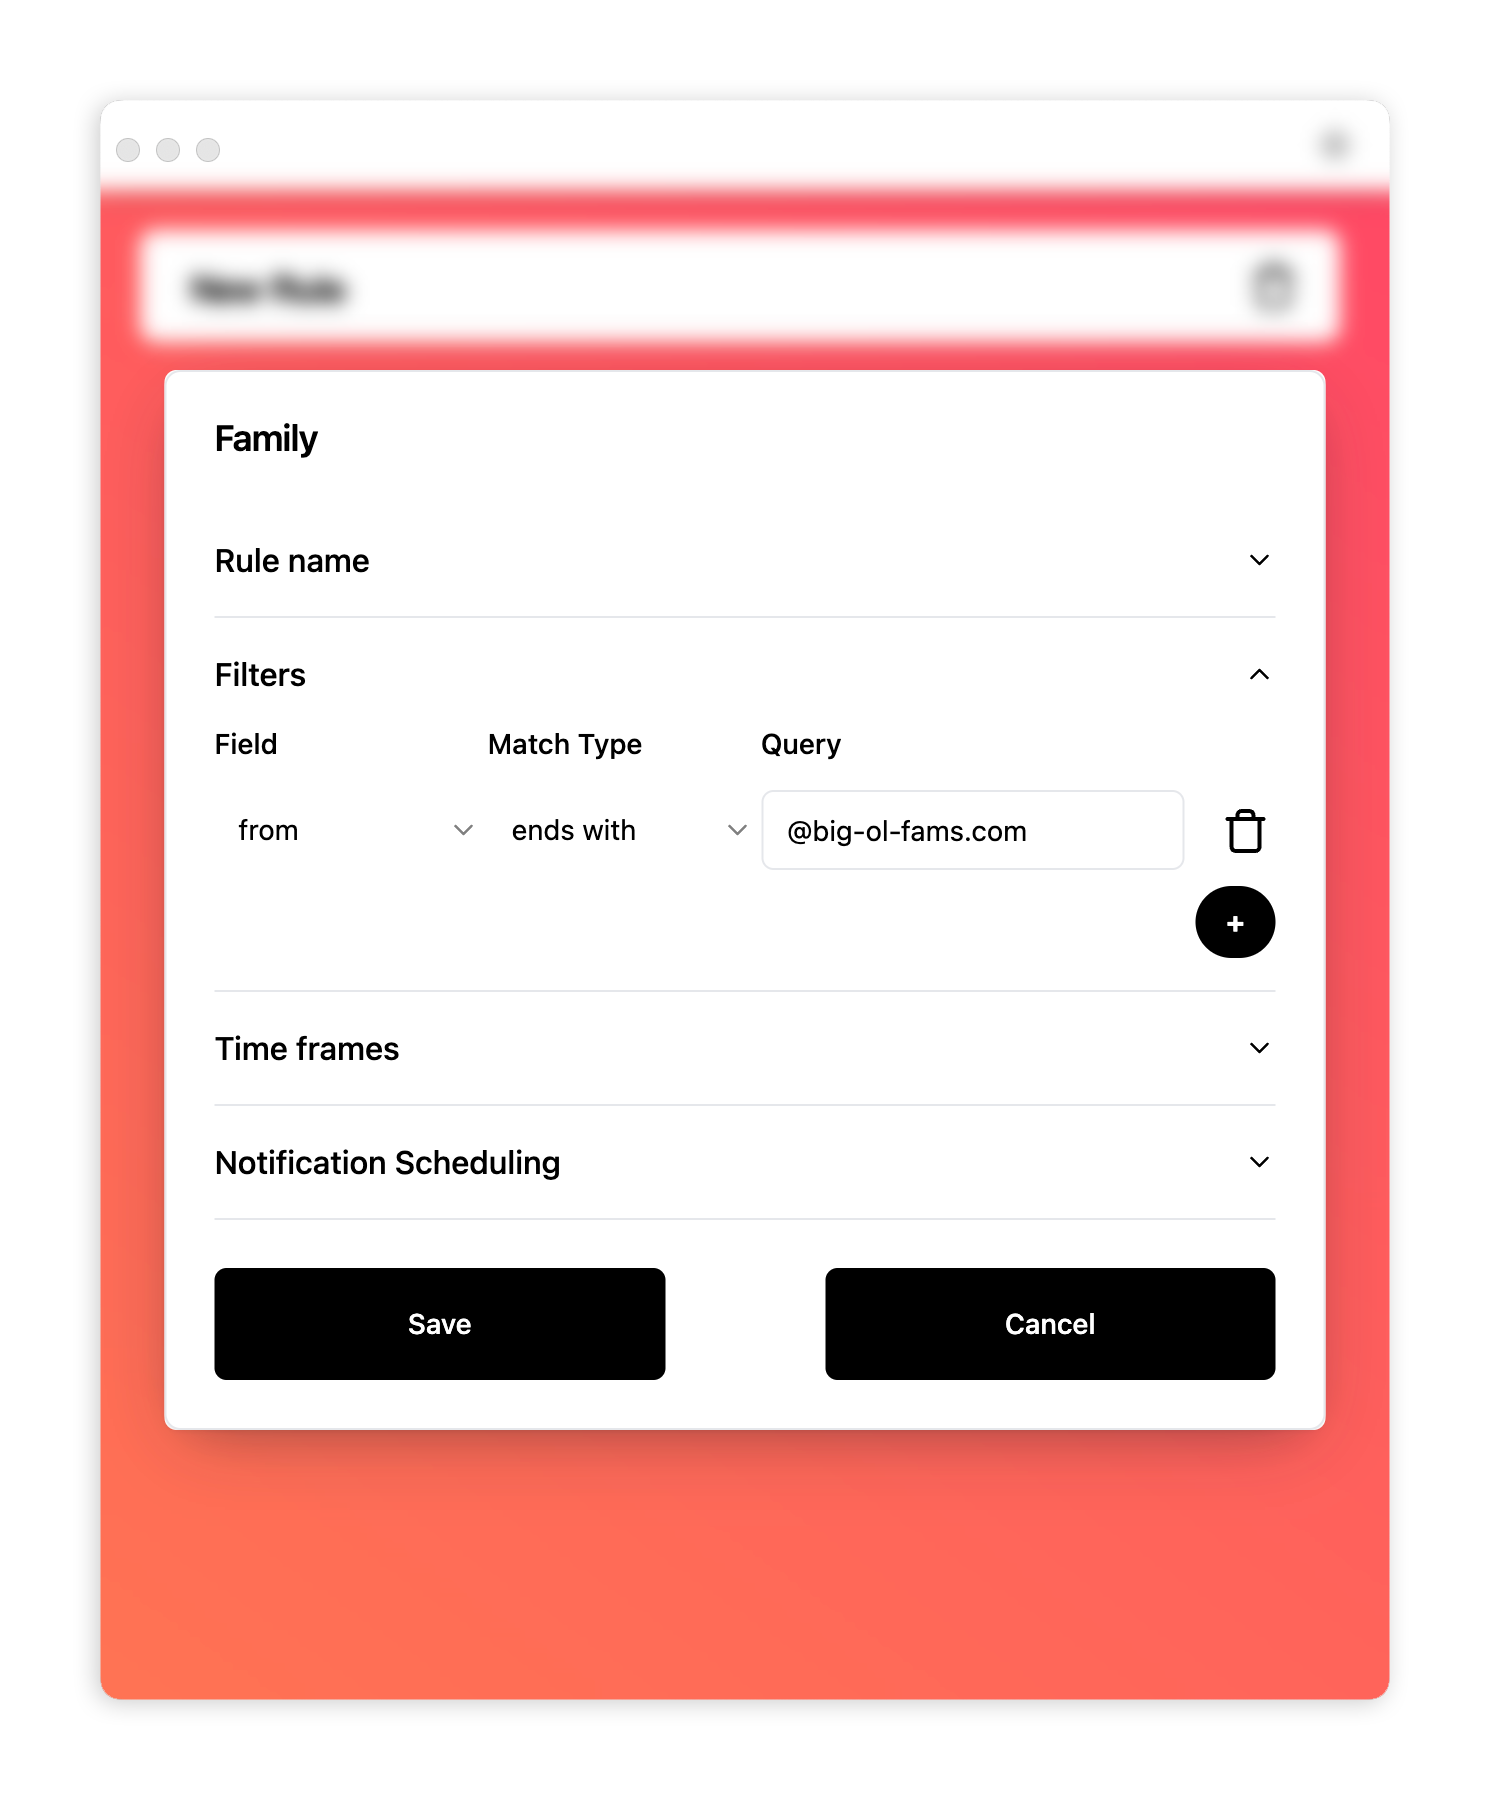
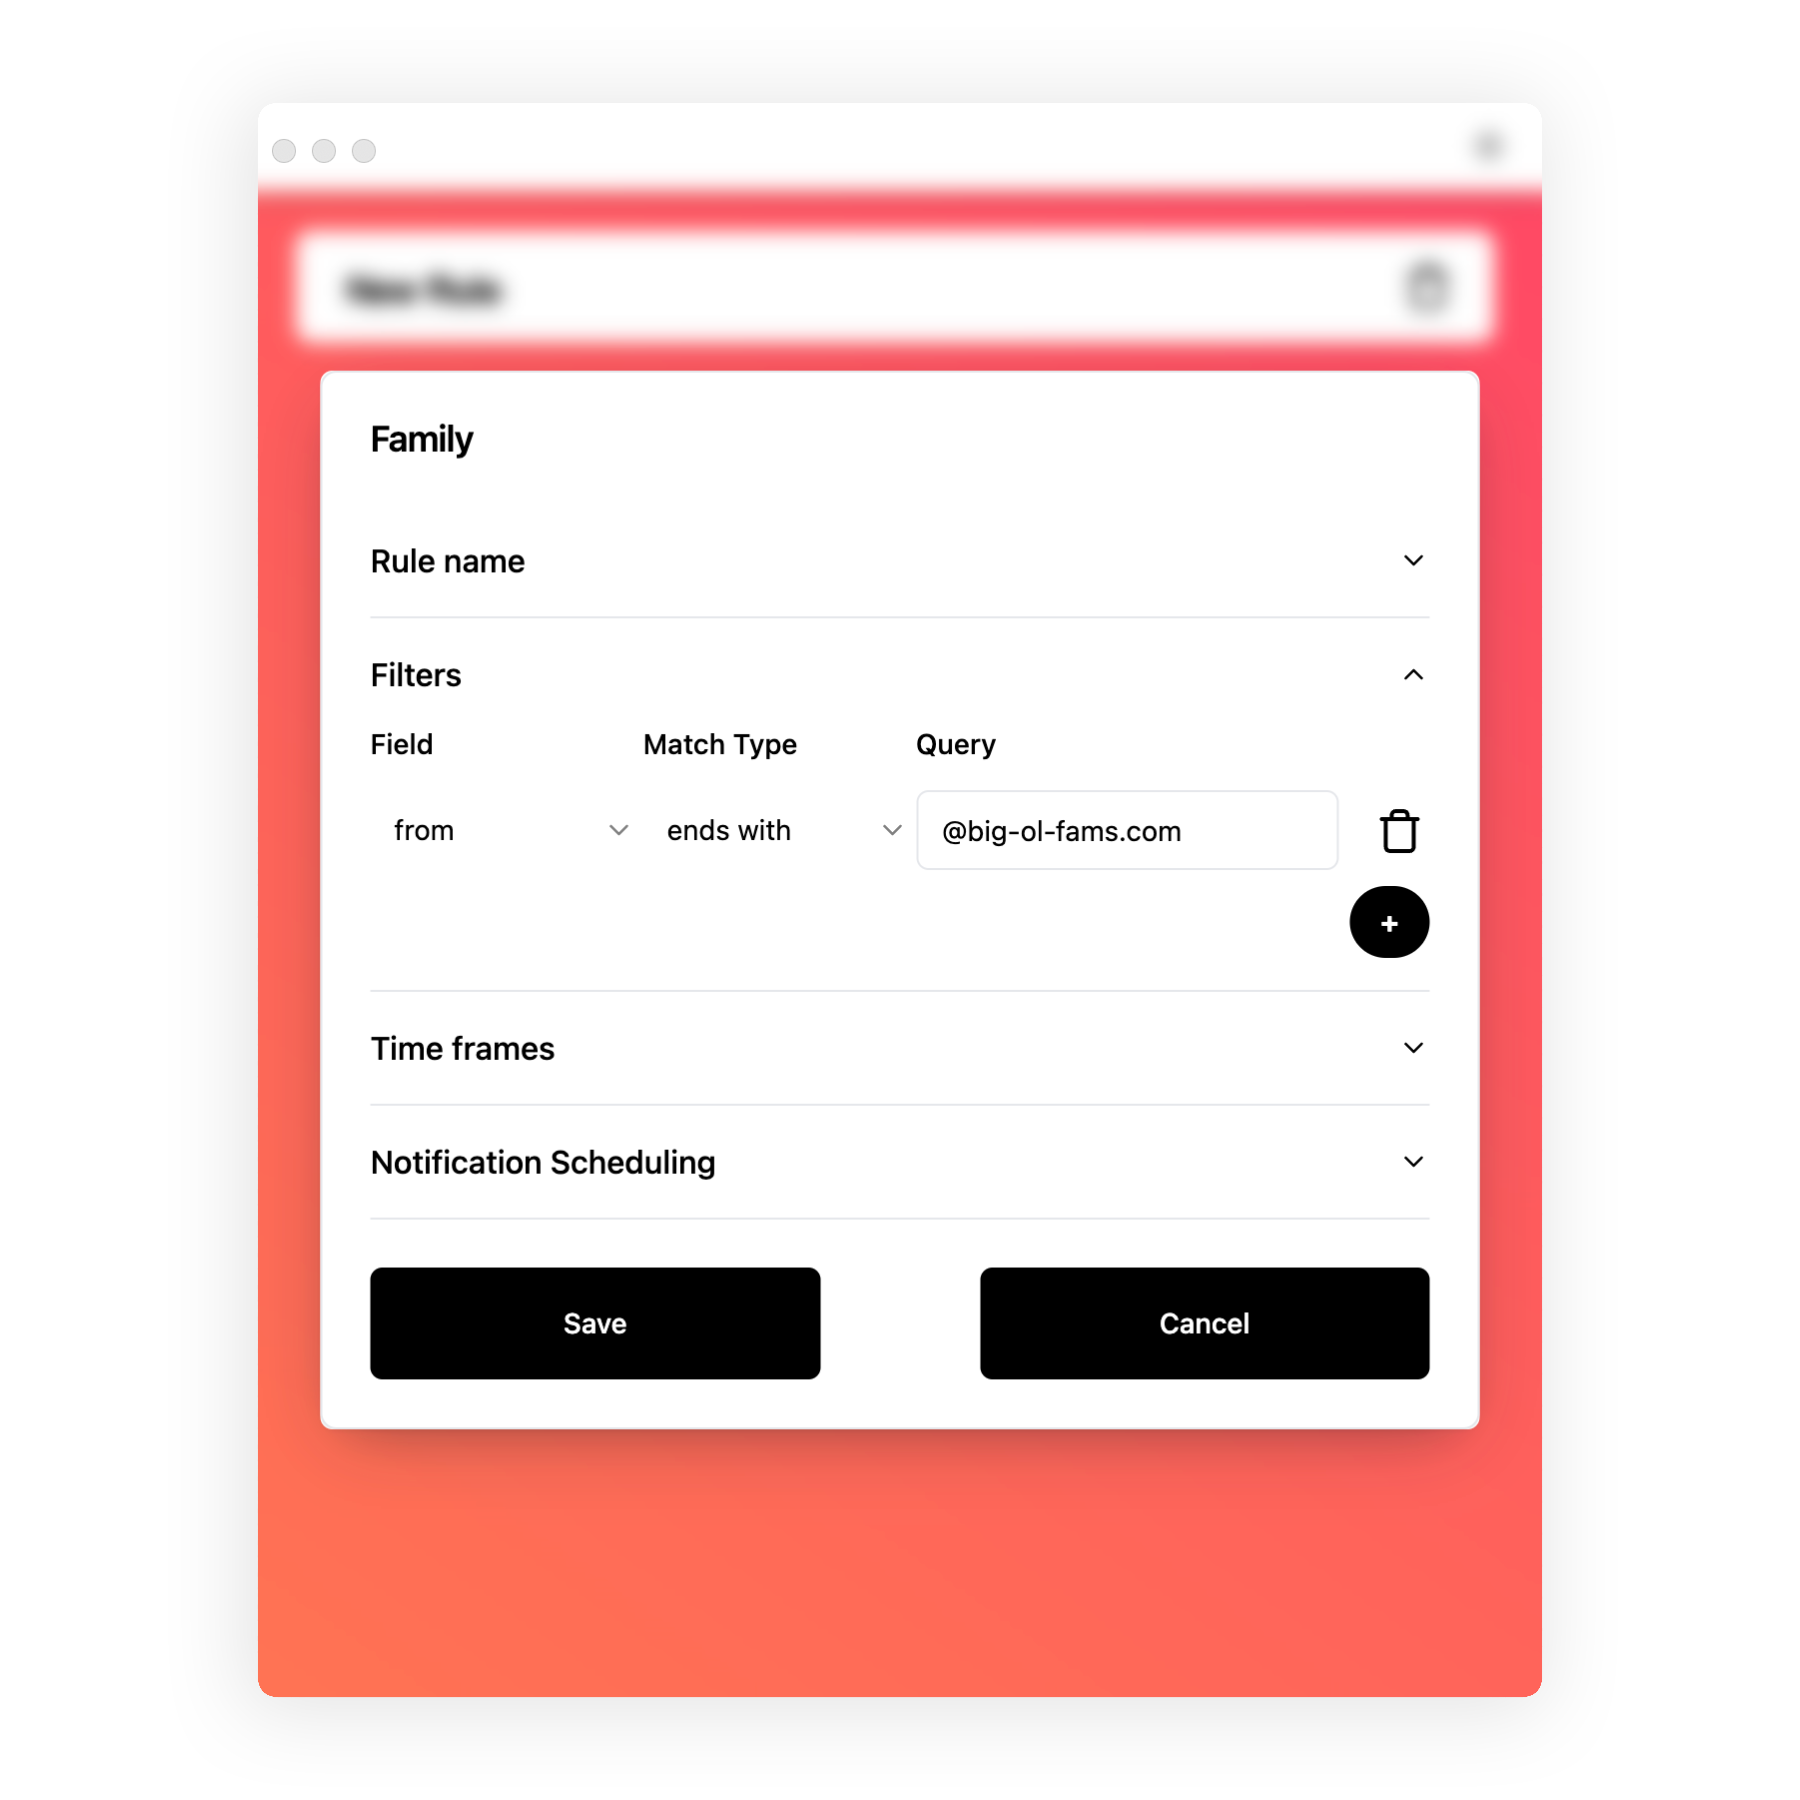
feature(website): Updated sizes

diff --git a/website/pages/index.js b/website/pages/index.js
@@ -20,21 +20,21 @@ export default function Home() {
       <Image
             className={styles.logo}
             src="/logo-banner.png"
-            alt="Rulie app screenshot"
+            alt="Rulie logo banner"
             width={300}
             height={100}
             priority
           />
-          <div className={poppins300.className}>
+          <h3 className={poppins300.className}>
           Take control of mail notifications!
-                      </div>
+                      </h3>
 
           <Image
             className={styles.screenshot}
             src="/screenshot.png"
             alt="Rulie app screenshot"
-            width={343}
-            height={420}
+            width={600}
+            height={600}
             priority
           />
           
@@ -69,7 +69,7 @@ export default function Home() {
           </a>
 
           <a
-            href="https://vercel.com/templates?framework=next.js&utm_source=create-next-app&utm_medium=default-template&utm_campaign=create-next-app"
+            href="https://github.com/theronburger/Rulie"
             className={styles.card}
             target="_blank"
             rel="noopener noreferrer"

diff --git a/website/styles/Home.module.css b/website/styles/Home.module.css
@@ -107,6 +107,10 @@
   transform: translateZ(0);
 }
 
+.screenshot {
+  position: relative;
+}
+
 .logo {
   position: relative;
 }
